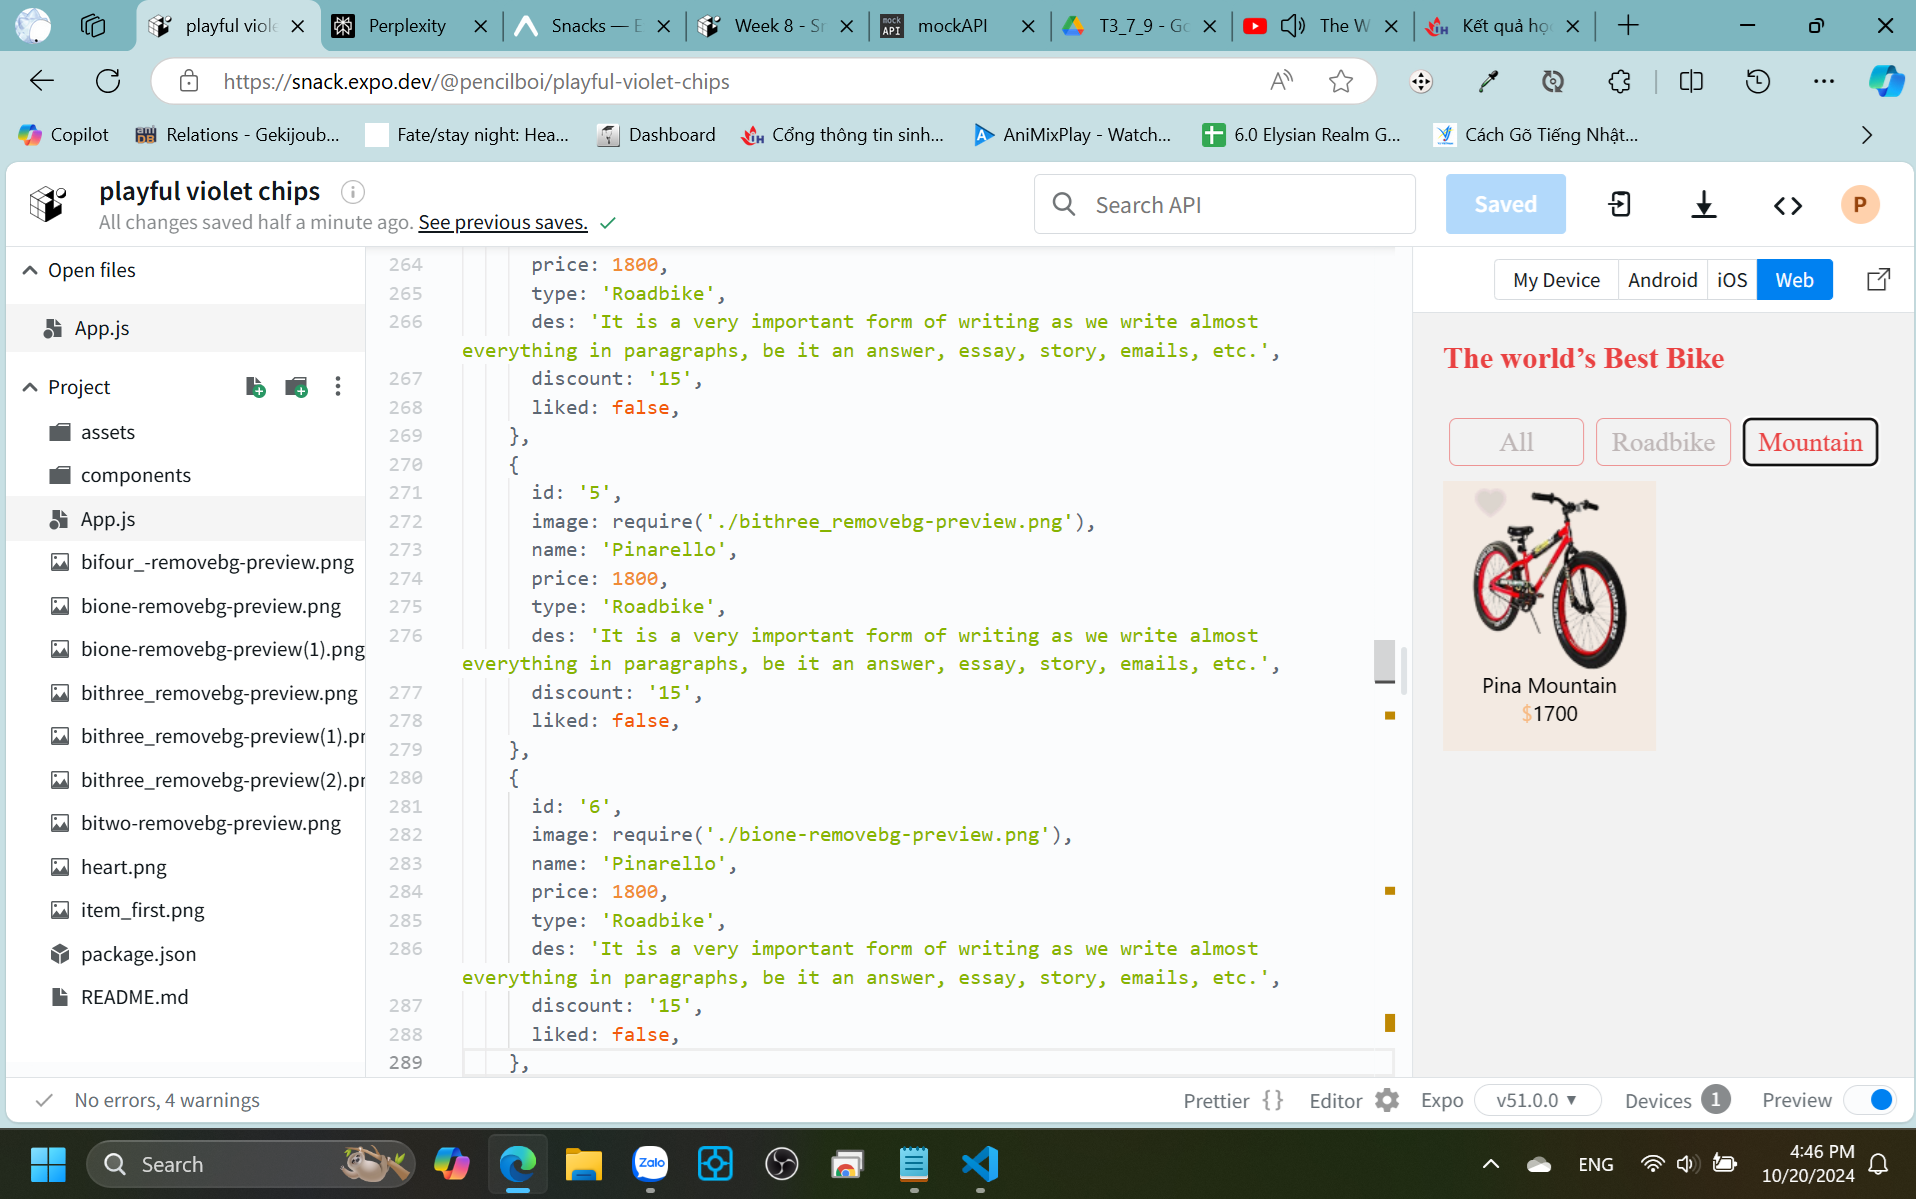
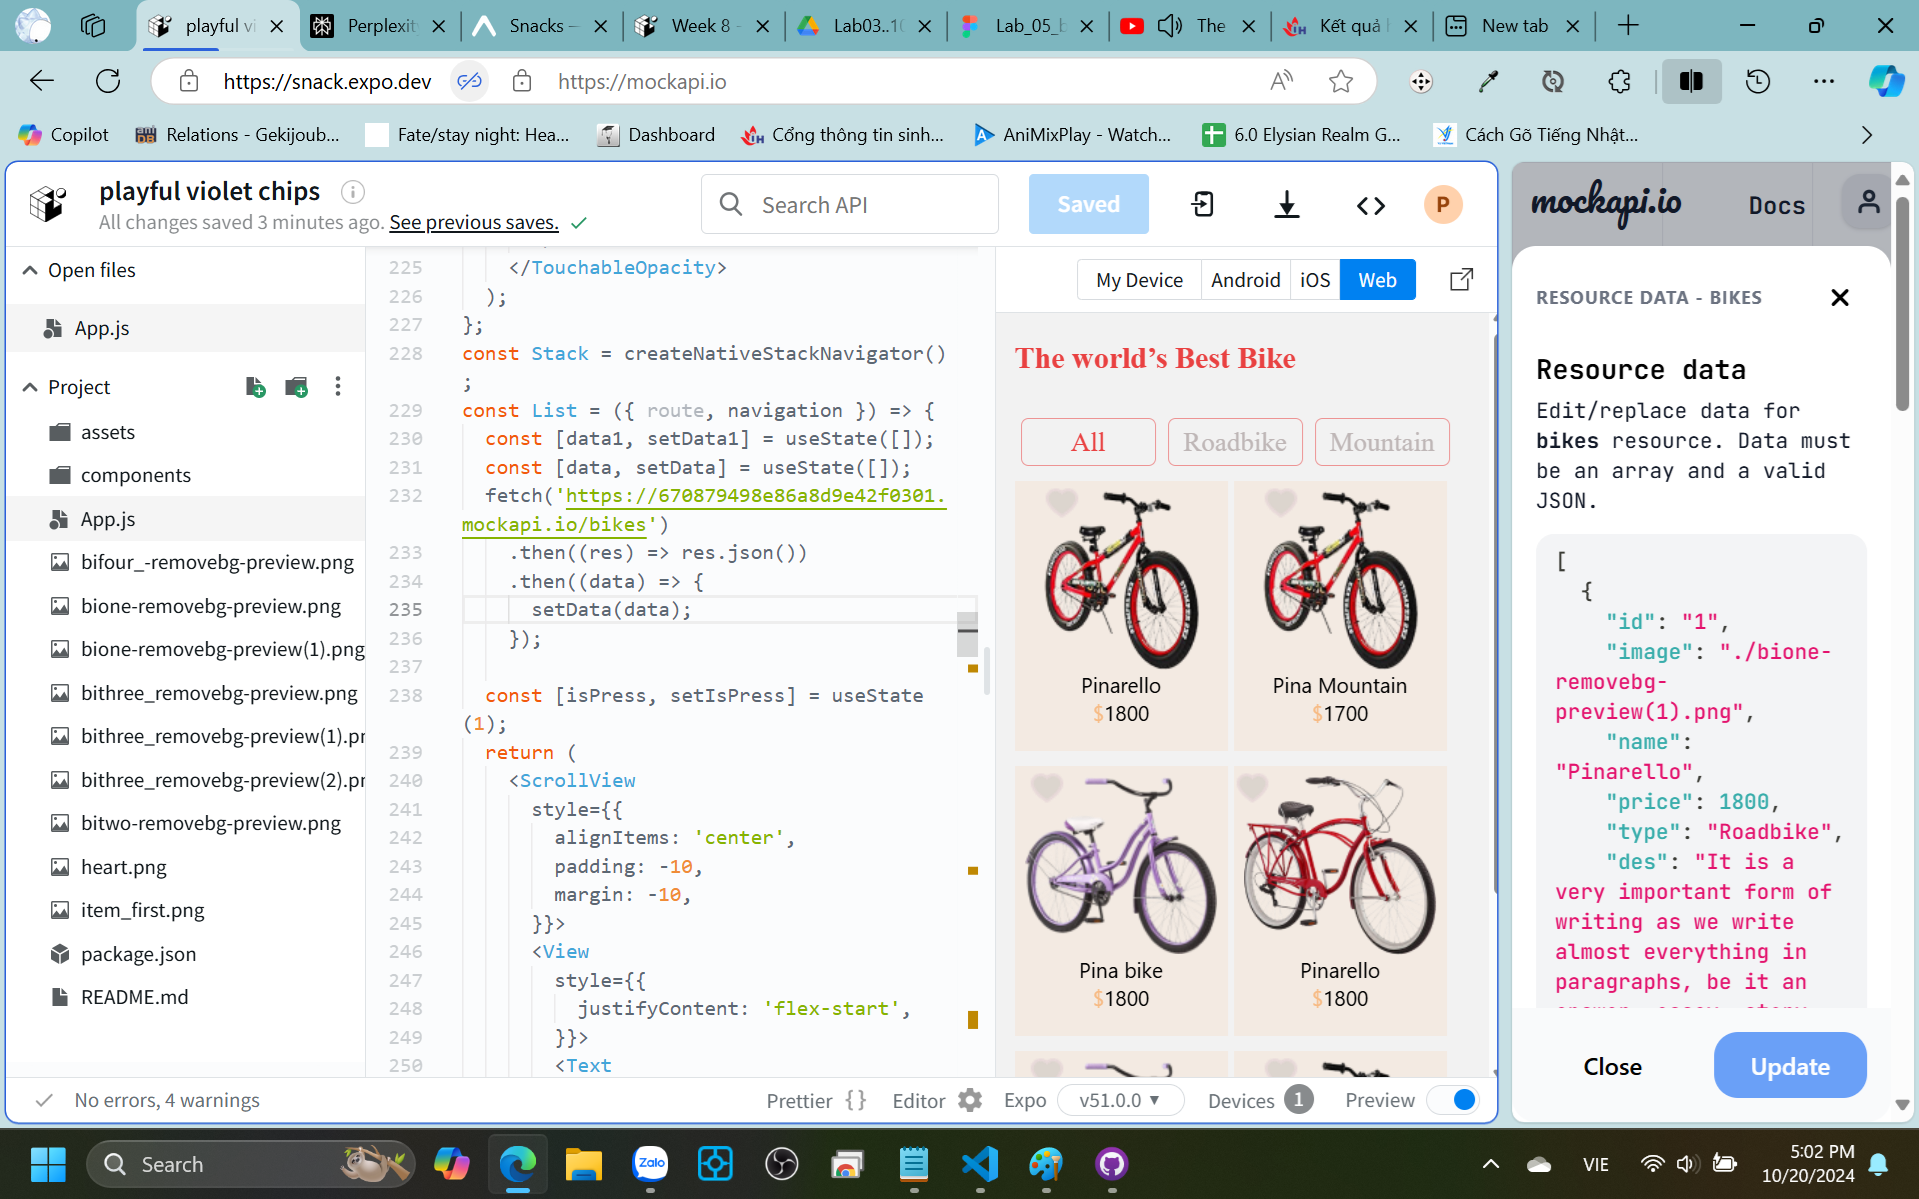
get data using api
using fetch api, get data from api, render data to list, update and fix some components

diff --git a/Tuan9/App.js b/Tuan9/App.js
@@ -8,13 +8,13 @@ import {
   StyleSheet,
   View,
 } from 'react-native';
-import { useEffect, useState } from 'react';
-import { useFonts, Voltaire_400Regular } from '@expo-google-fonts/voltaire';
+import { useEffect, useState, useContext, createContext } from 'react';
 
 import { NavigationContainer } from '@react-navigation/native';
 import { createNativeStackNavigator } from '@react-navigation/native-stack';
-
+const imgC = createContext();
 const Detail = ({ route, navigation }) => {
+  const imgs = useContext(imgC)
   const { item } = route.params;
   return (
     <ScrollView
@@ -34,7 +34,7 @@ const Detail = ({ route, navigation }) => {
           borderRadius: 50,
         }}>
         <Image
-          source={item.image}
+          source={imgs[item.image]}
           style={{
             height: 350,
             resizeMode: 'contain',
@@ -75,9 +75,9 @@ const Detail = ({ route, navigation }) => {
             fontWeight: 400,
           }}>
           {item.discount}% OFF |
-          {() => {
-            (item.price * item.discount) / 100;
-          }}
+          {
+            (item.price * item.discount) / 100
+          }$
         </Text>
 
         <Text
@@ -86,6 +86,7 @@ const Detail = ({ route, navigation }) => {
             lineHeight: 20,
             fontFamily: 'Voltaire',
             fontWeight: 400,
+            marginLeft: 30
           }}>
           {item.price}$
         </Text>
@@ -168,6 +169,7 @@ const Detail = ({ route, navigation }) => {
   );
 };
 const Item = ({ item, navigation }) => {
+  const imgs = useContext(imgC)
   return (
     <TouchableOpacity
       style={{}}
@@ -197,7 +199,7 @@ const Item = ({ item, navigation }) => {
             <Image source={require('./heart.png')} />
           </TouchableOpacity>
           <Image
-            source={item.image}
+            source={imgs[item.image]}
             style={{
               height: 120,
               resizeMode: 'contain',
@@ -225,11 +227,12 @@ const Item = ({ item, navigation }) => {
 };
 const Stack = createNativeStackNavigator();
 const List = ({ route, navigation }) => {
+  const [data1, setData1] = useState([]);
   const [data, setData] = useState([]);
   fetch('https://670879498e86a8d9e42f0301.mockapi.io/bikes')
     .then((res) => res.json())
     .then((data) => {
-      setData(data)
+      setData(data);
     });
 
   const [isPress, setIsPress] = useState(1);
@@ -414,42 +417,42 @@ const HomeScreen = ({ navigation }) => {
 };
 
 export default function App() {
-  const [fontsLoaded] = useFonts({
-    Voltaire_400Regular,
-  });
-
-  if (!fontsLoaded) {
-    return null;
-  }
-
+  const imgs = {
+    './bione-removebg-preview(1).png': require('./bione-removebg-preview(1).png'),
+    './bithree_removebg-preview.png': require('./bithree_removebg-preview.png'),
+    './bitwo-removebg-preview.png': require('./bitwo-removebg-preview.png'),
+    './bione-removebg-preview.png': require('./bione-removebg-preview.png'),
+  };
   return (
-    <NavigationContainer>
-      <Stack.Navigator>
-        <Stack.Screen
-          name="Home"
-          component={HomeScreen}
-          options={{
-            headerShown: false,
-          }}
-        />
+    <imgC.Provider value={imgs}>
+      <NavigationContainer>
+        <Stack.Navigator>
+          <Stack.Screen
+            name="Home"
+            component={HomeScreen}
+            options={{
+              headerShown: false,
+            }}
+          />
 
-        <Stack.Screen
-          name="List"
-          component={List}
-          options={{
-            headerShown: false,
-          }}
-        />
+          <Stack.Screen
+            name="List"
+            component={List}
+            options={{
+              headerShown: false,
+            }}
+          />
 
-        <Stack.Screen
-          name="Detail"
-          component={Detail}
-          options={{
-            headerShown: false,
-          }}
-        />
-      </Stack.Navigator>
-    </NavigationContainer>
+          <Stack.Screen
+            name="Detail"
+            component={Detail}
+            options={{
+              headerShown: false,
+            }}
+          />
+        </Stack.Navigator>
+      </NavigationContainer>
+    </imgC.Provider>
   );
 }
 
